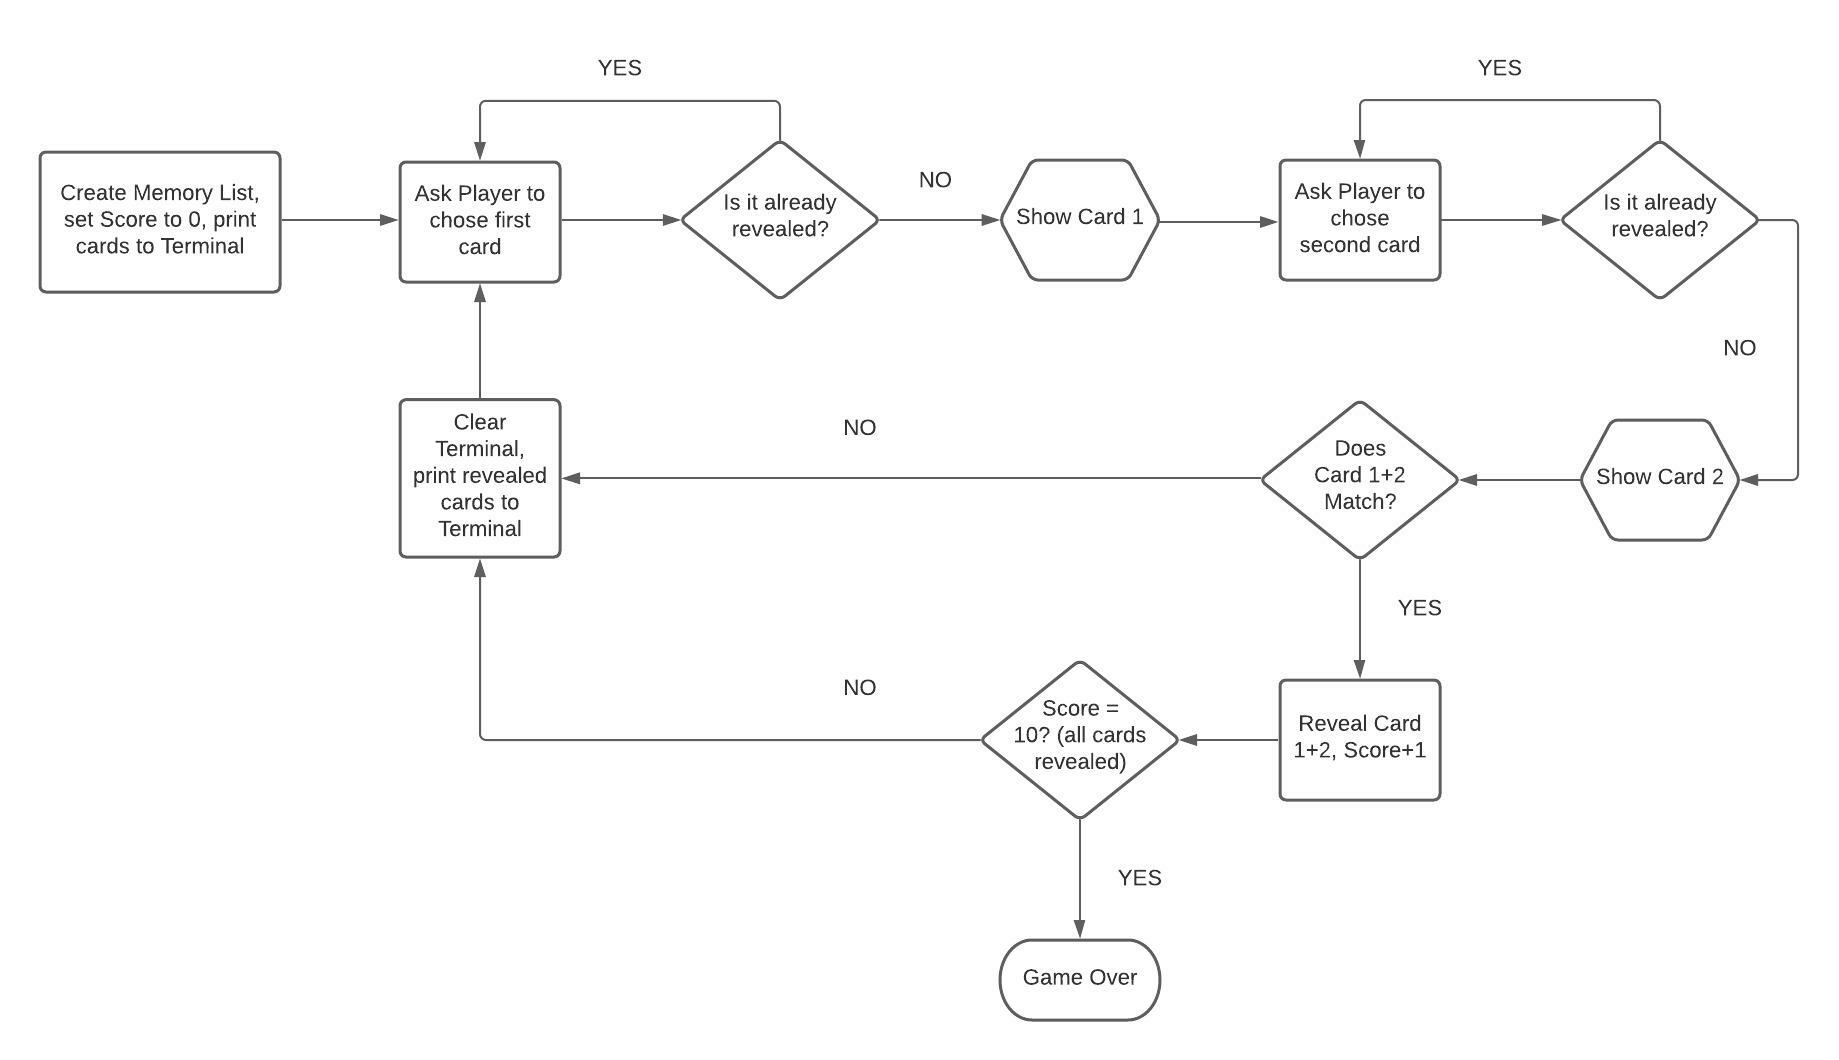
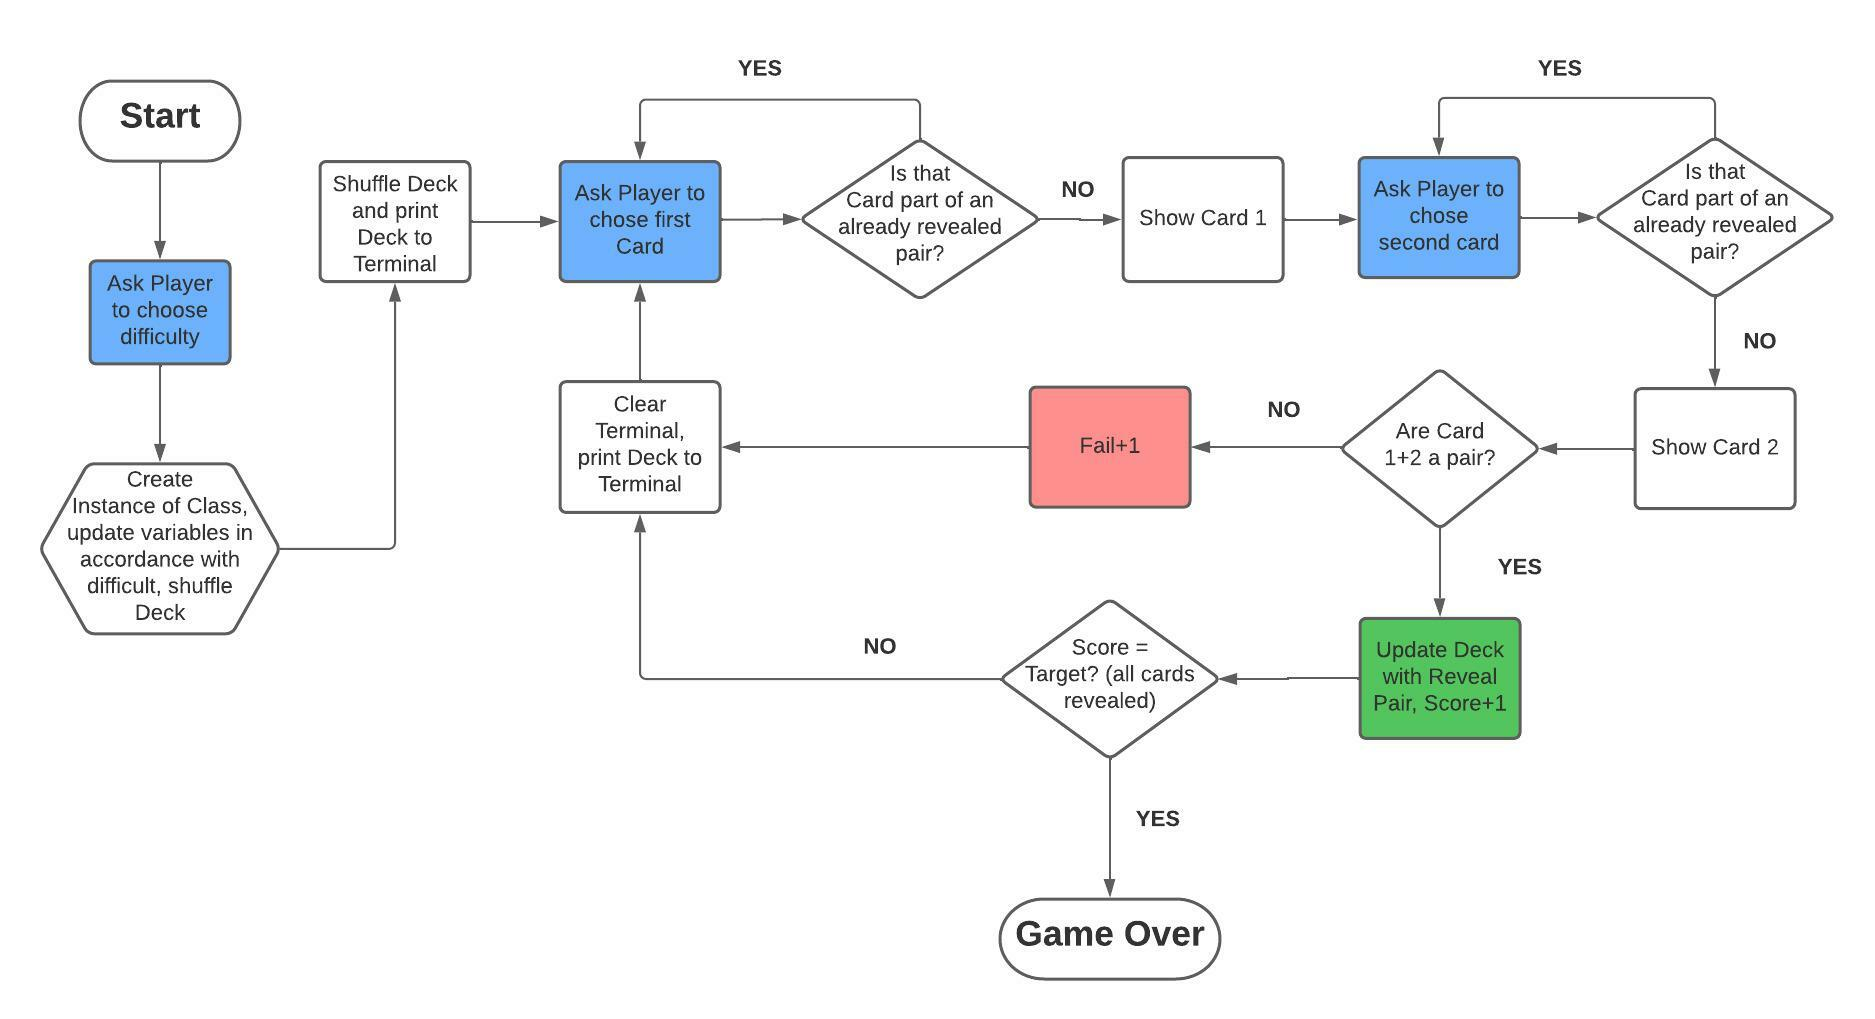
Fix: change try/except to include input and update flowchart picture

diff --git a/run.py b/run.py
@@ -12,8 +12,8 @@ class MemoryCard:
     """
     def __init__(self, difficulty):
         self.difficulty = difficulty    # difficulty (0=10 cards, 1=20, 2=30)
-        self.score = 0     # keeps track of the score, 10=all cards revealed
-        self.fails = 0     # keeps track of unsuccessful tries
+        self.score = 0     # tracks score, score=target means player wins
+        self.fails = 0     # tracks unsuccessful tries
         self.solution = ["0", "0", "1", "1", "2", "2", "3", "3", "4", "4",
                          "5", "5", "6", "6", "7", "7", "8", "8", "9", "9",
                          "a", "a", "b", "b", "c", "c", "d", "d", "e", "e"]
@@ -88,7 +88,7 @@ class MemoryCard:
 
     def get_card(self, other_index):
         """
-        Get Player Input for showing a Card
+        Get Player Input for showing a Card and return its index
         """
         while True:
             print(Fore.BLUE + "Please chose a Card to reveal in the")
@@ -260,25 +260,28 @@ def main():
     difficulty_int = 0
 
     while True:
-        difficulty = input("Please choose your difficulty (0/1/2): ")
-        # checks if it is exactly 1 character
-        if len(difficulty) == 1:
-            # checks if it is a digit
-            if difficulty.isdigit():
-                try:
+        try:
+            difficulty = input("Please choose your difficulty (0/1/2): ")
+
+            # checks if it is exactly 1 character
+            if len(difficulty) == 1:
+                # checks if it is a digit
+                if difficulty.isdigit():
                     difficulty_int = int(difficulty)
+
                     # checks if it is between 0 and 2
                     if difficulty_int >= 0 and difficulty_int < 3:
                         break
                     else:
                         print("Please enter a value between 0 and 2.")
 
-                except UnicodeError as exception_error:
-                    print(f"The Decoding failed: {exception_error}")
+                else:
+                    print("Please enter a number.")
             else:
-                print("Please enter a number.")
-        else:
-            print("Please enter a correct value.")
+                print("Please enter a correct value.")
+
+        except UnicodeError as exception_error:
+            print(f"The Decoding failed: {exception_error}")
 
     # creates a new instance of MemoryCard, creating the game
     play = MemoryCard(difficulty_int)

diff --git a/README.md b/README.md
@@ -145,7 +145,7 @@ The MemoryCard Class was used to store all necessary information for running the
 
 ### Known Bugs
 
--   When choosing Difficulty, it can, on rare occurrences, lead to a crash of the Game. The Input itself does not matter, it sometimes simply fails when the int() function is called and in other instances it works fine. Even Tutor Support was unable to reproduce the error, with the same Inputs often working and sometimes not. It might be related to messages on Gitpod with the Python server crashing multiple times, though it did happen on the deployed version on heroku as well. Further Testing is needed to find out why this happens. The Code at that point has been wrapped in a try/except to more gracefully exit the program in case it does break at that point. Please see a screen of the message below.
+-   When choosing Difficulty, it can, on rare occurrences, lead to a crash of the Game. The Input itself does not matter, it sometimes simply fails when the input() function is called and in other instances it works fine. Even Tutor Support was unable to reproduce the error, with the same Inputs often working and sometimes not. It might be related to messages on Gitpod with the Python server crashing multiple times, though it did happen on the deployed version on heroku as well. Further Testing is needed to find out why this happens. The Code at that point has been wrapped in a try/except to more gracefully exit the program in case it does break at that point. Please see a screen of the message below.
 <h2><img src="./docs/images/encoding_bug.jpg" alt="Picture of the encoding Bug"></h2>
 
 -   Players can scroll up in the terminal and look at their old inputs and reveals. This might sometimes also break the display of the cards, but that is sadly a limitation of the terminal and the template itself.
